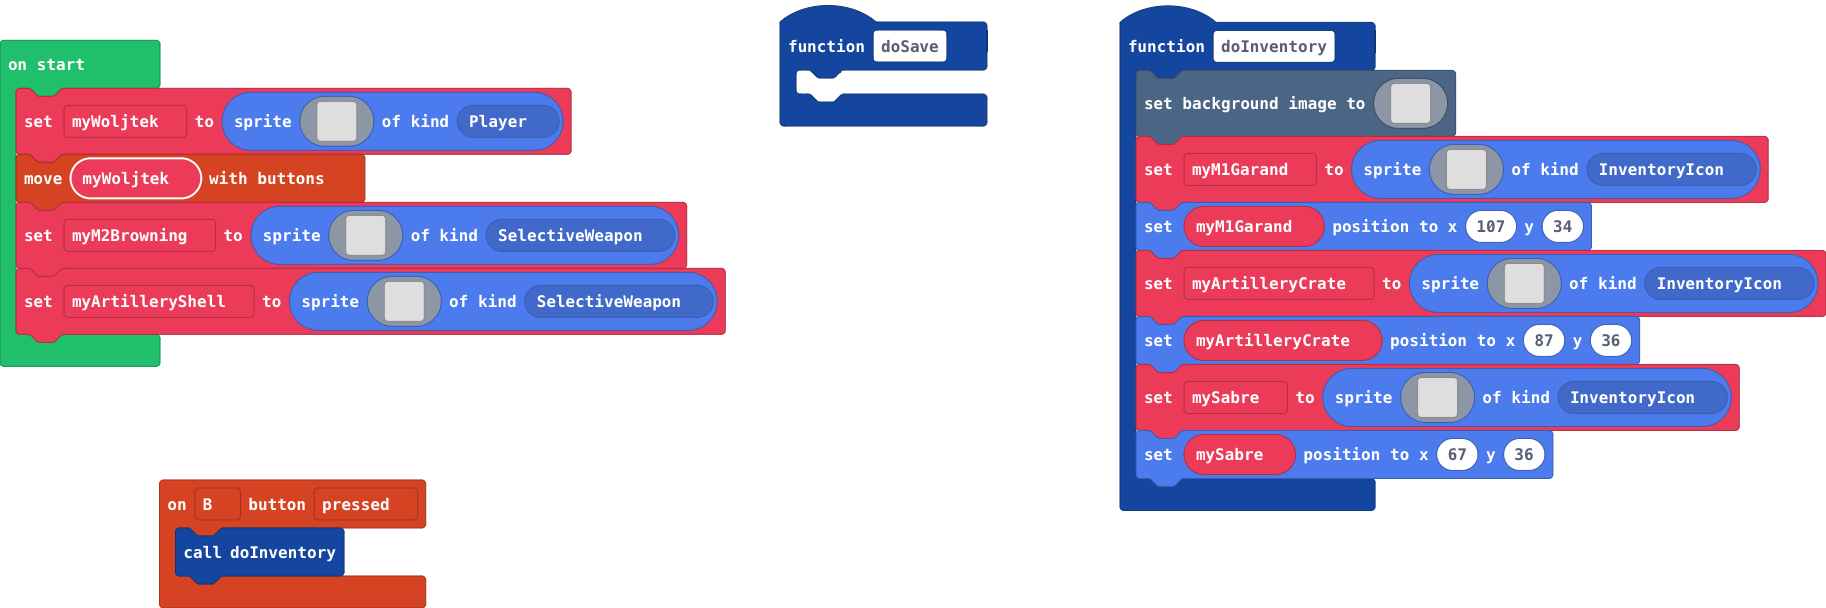
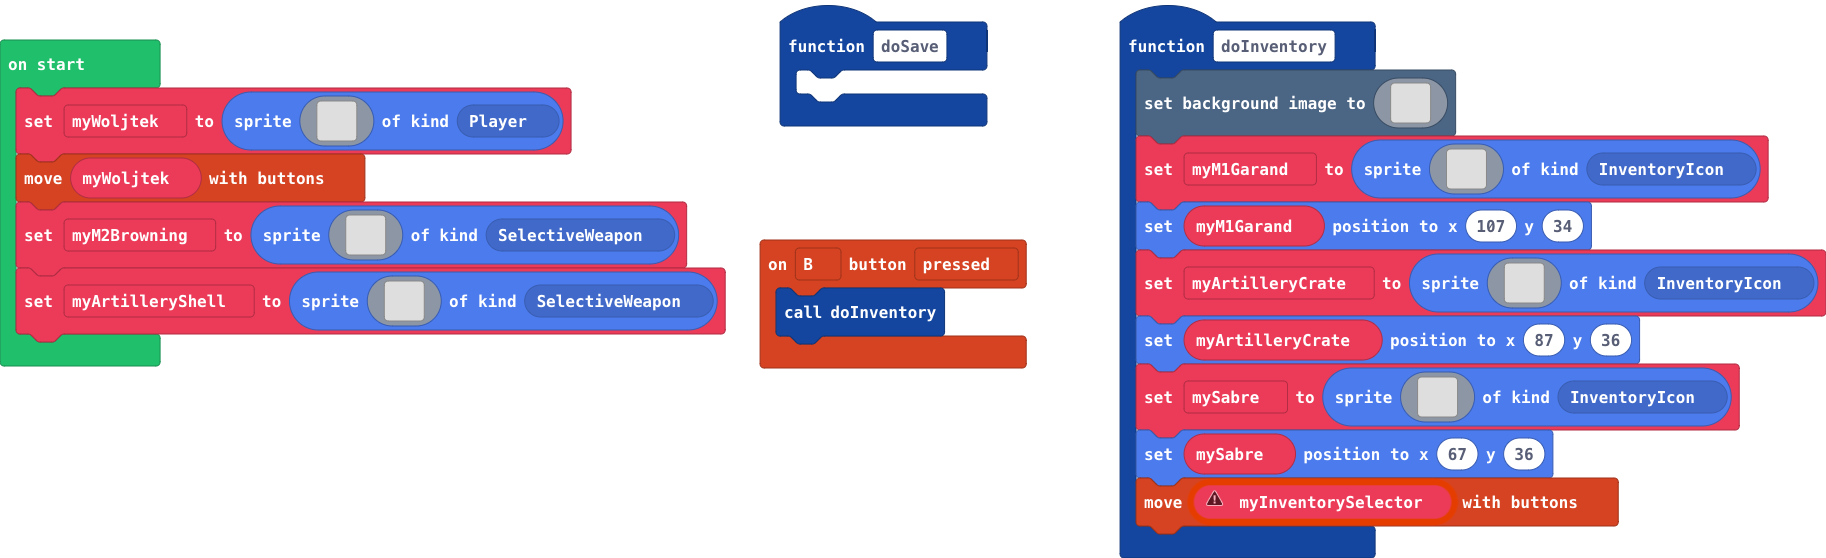
Update main.blocks, main.ts

diff --git a/main.ts b/main.ts
@@ -7,6 +7,7 @@ controller.B.onEvent(ControllerButtonEvent.Pressed, function () {
     doInventory()
 })
 function doInventory () {
+    let myInventorySelector: Sprite = null
     scene.setBackgroundImage(img`
         ................................................................................................................................................................
         ................................................................................................................................................................
@@ -186,6 +187,7 @@ function doInventory () {
         . . . . . . . . . . . . . . . . 
         `, SpriteKind.InventoryIcon)
     mySabre.setPosition(67, 36)
+    controller.moveSprite(myInventorySelector)
 }
 function doSave () {
 	
